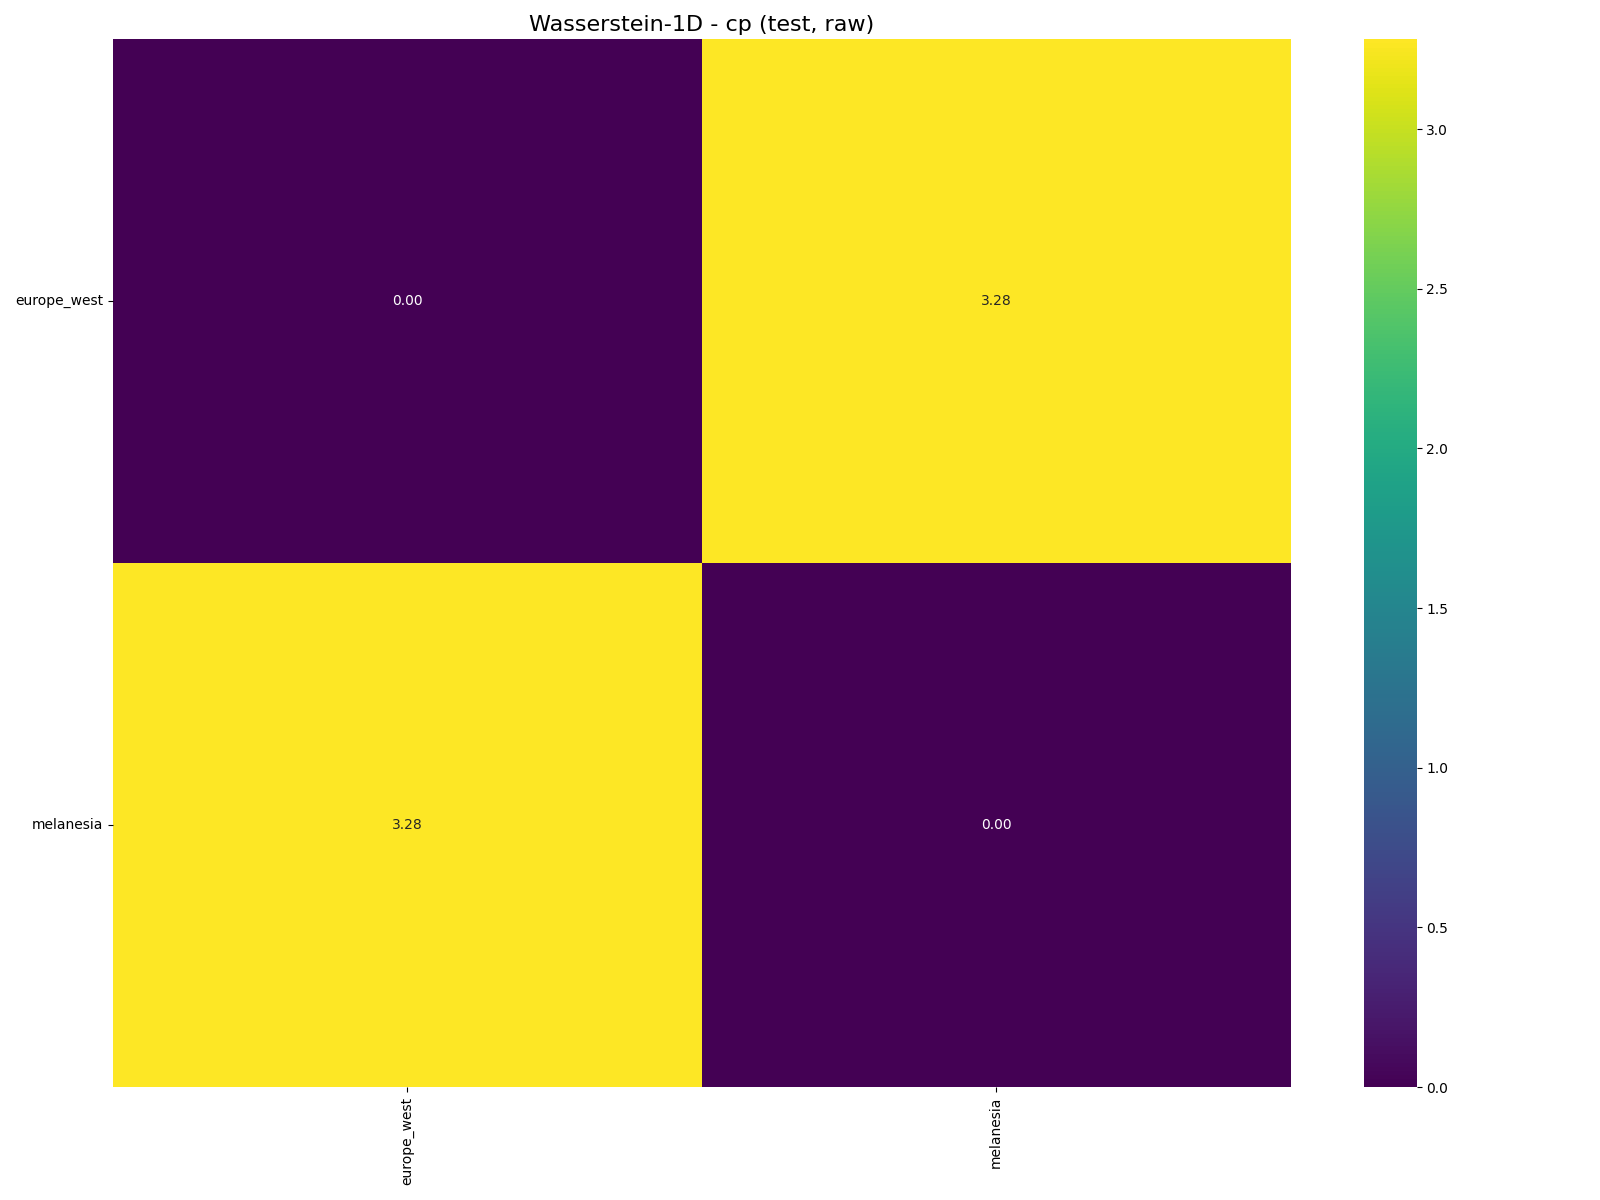
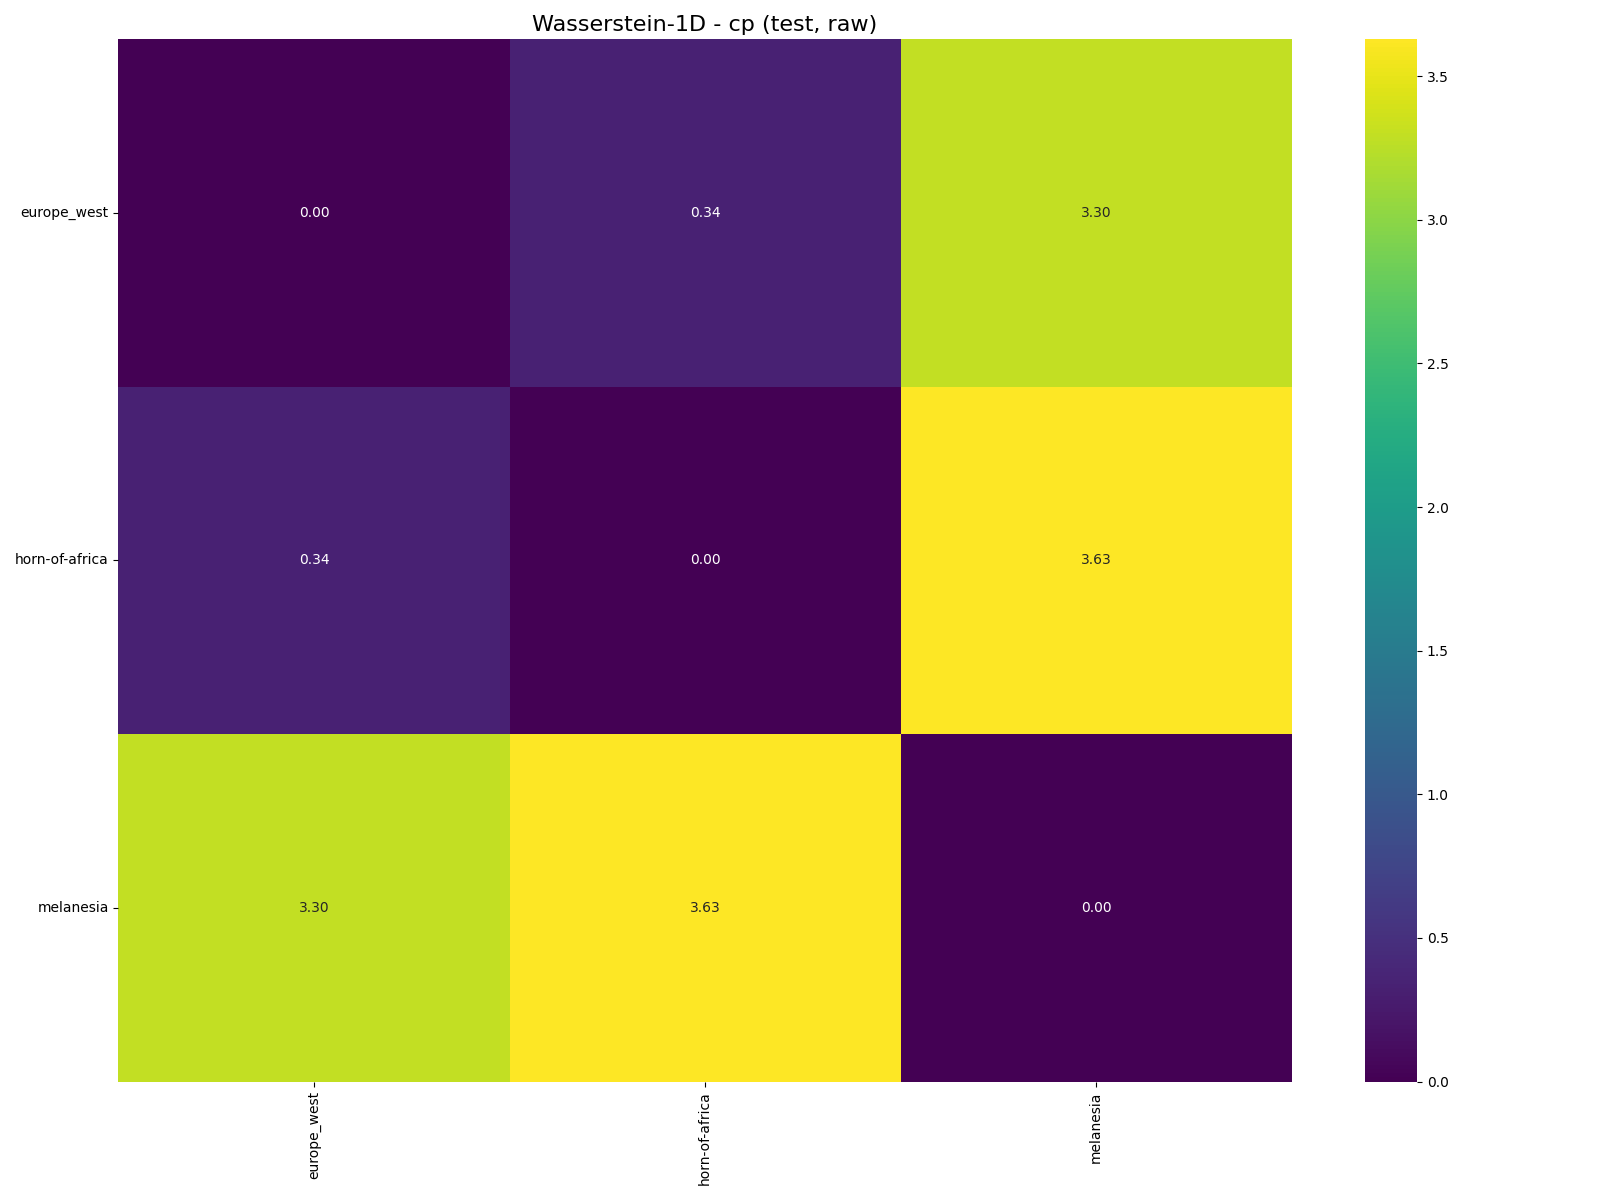
new covariate analysis

diff --git a/covariate_shift_analysis/compute_shift.py b/covariate_shift_analysis/compute_shift.py
@@ -5,12 +5,20 @@ domains, computed on the .npy datasets produced by
 
 For every (domain_i, domain_j, variable) triple the script computes the
 Wasserstein-1 distance between the two empirical pixel distributions of that
-variable, using GPU sort/quantile. Output has shape ``(V, D, D)`` with V the
-number of variables and D the number of domains:
+variable, using a GPU-vectorised exact empirical estimator. Output has shape
+``(V, D, D)`` with V the number of variables and D the number of domains:
 
     {output_dir}/{mode}/Wasserstein_1D_{split}.npy
     {output_dir}/{mode}/Wasserstein_1D_{split}_{var}.png
     {output_dir}/{mode}/Wasserstein_1D_{split}_variables.json
+
+With ``--emit_aggregates`` the script additionally writes scalar (D, D)
+matrices aggregated over the input channels:
+
+    {output_dir}/{mode}/Wasserstein_1D_{split}_mean_inputs.npy
+    {output_dir}/{mode}/Wasserstein_1D_{split}_max_inputs.npy
+    {output_dir}/{mode}/Wasserstein_1D_{split}_mean_inputs.png
+    {output_dir}/{mode}/Wasserstein_1D_{split}_max_inputs.png
 
 The JSON sidecar records the channel-to-variable map and the domain ordering,
 since both are needed to interpret the matrix and neither is implicit anymore
@@ -24,6 +32,11 @@ target is read from ``{split}_y.npy`` and appended as the last channel of the
 output matrix. Disable with ``--target_var none``. The output shape is
 therefore ``(len(input_vars) + (target_var != None), D, D)``.
 
+The aggregate matrices produced by ``--emit_aggregates`` are computed over the
+input channels only; the target channel (tp/precipitation) is excluded, since
+mean_inputs is intended as a covariate-shift summary W1(mu_S, mu_T), distinct
+from the target/label shift measured on the target channel alone.
+
 Modes and transformations
 -------------------------
 raw
@@ -36,13 +49,32 @@ normalized
     ``ClimateSRDatasetNPY`` at training time exactly: log on precip channels
     is baked into ``.npy`` upstream, and z-score is applied here. The
     precipitation target therefore enters the distance in log-standardised
-    space — the same space the training loss is computed in.
+    space -- the same space the training loss is computed in.
+
+    In normalized mode every channel is expressed in units of its own source
+    standard deviation, which makes distances across channels commensurable
+    and mean_inputs a well-defined average. Note that this treats a fixed
+    fractional-sigma shift as equivalent across channels, which is a summary
+    convention rather than a physical equivalence; max_inputs is reported
+    alongside for cases where a single strongly shifted channel dominates
+    transfer difficulty.
 
 Region selection
 ----------------
 Pass ``--domains name1 name2 ...`` to restrict the computation to a subset.
 With no ``--domains``, every subdirectory of ``--data_root`` that contains a
 ``stats.json`` is used.
+
+Metric
+------
+The 1D Wasserstein-1 distance is computed exactly for arbitrary (possibly
+unequal) sample sizes via the empirical-CDF-difference integral
+``W1 = integral |F_a(x) - F_b(x)| dx``, evaluated on the sorted union of the
+two supports. This is exact up to floating point and does not rely on
+quantile interpolation, which would otherwise underestimate the heavy upper
+tail of precipitation distributions. Verified against
+``scipy.stats.wasserstein_distance`` and the analytical limit W1 = |c| for a
+pure location shift of magnitude c.
 """
 
 import argparse
@@ -67,24 +99,34 @@ DEFAULT_TARGET_VAR = "precipitation"
 
 
 def wasserstein1d_gpu(a: np.ndarray, b: np.ndarray, device: torch.device) -> float:
-    """1D Wasserstein-1 via empirical inverse-CDF matching on GPU."""
+    """
+    Exact 1D Wasserstein-1 distance between two empirical distributions.
+
+    Uses the closed-form one-dimensional expression
+        W1(a, b) = integral_R |F_a(x) - F_b(x)| dx,
+    evaluated on the sorted union of the two supports. Exact for arbitrary
+    (including unequal) sample sizes, with no quantile interpolation. This
+    avoids the upper-tail bias that a fixed-grid inverse-CDF approximation
+    introduces on heavy-tailed, zero-inflated precipitation channels.
+
+    Equivalent to scipy.stats.wasserstein_distance but GPU-vectorised.
+    """
     if a.size == 0 or b.size == 0:
         return float("nan")
-    ta = torch.from_numpy(a).to(device)
-    tb = torch.from_numpy(b).to(device)
 
-    # equal-length: pointwise sort is the Monge coupling
-    if ta.shape[0] == tb.shape[0]:
-        ta, _ = torch.sort(ta)
-        tb, _ = torch.sort(tb)
-        return torch.mean(torch.abs(ta - tb)).item()
+    ta = torch.from_numpy(a).to(device).sort().values
+    tb = torch.from_numpy(b).to(device).sort().values
 
-    # unequal length: align on a common quantile grid
-    n = min(ta.shape[0], tb.shape[0])
-    q = torch.linspace(0.0, 1.0, steps=n, device=device)
-    ta = torch.quantile(ta, q)
-    tb = torch.quantile(tb, q)
-    return torch.mean(torch.abs(ta - tb)).item()
+    # Sorted union of support points defines the integration breakpoints.
+    allv = torch.cat([ta, tb]).sort().values
+    deltas = allv[1:] - allv[:-1]  # interval widths, (M-1,)
+
+    # Empirical CDFs at the left edge of each interval:
+    # searchsorted(..., right=True) counts samples <= x; divide by n for F(x).
+    cdf_a = torch.searchsorted(ta, allv[:-1], right=True).to(deltas.dtype) / ta.numel()
+    cdf_b = torch.searchsorted(tb, allv[:-1], right=True).to(deltas.dtype) / tb.numel()
+
+    return torch.sum(torch.abs(cdf_a - cdf_b) * deltas).item()
 
 
 # --------------------------------------------------------------------------
@@ -92,19 +134,22 @@ def wasserstein1d_gpu(a: np.ndarray, b: np.ndarray, device: torch.device) -> flo
 # --------------------------------------------------------------------------
 
 
-def _load_channel(
-    data_path: Path,
-    filename: str,
-    channel: int,
-    n_samples: int,
-    rng: np.random.Generator,
-) -> np.ndarray:
-    """Flat float32 pixel values for one channel from {filename}."""
-    fp = data_path / filename
-    x = np.load(fp, mmap_mode="r")  # (N, C, H, W)
+def _sample_indices(data_path: Path, filename: str, n_samples: int, rng: np.random.Generator) -> np.ndarray:
+    """
+    Draw a sorted frame-index set for one domain, once, to be reused across
+    all channels of that domain. Sharing the index set makes the per-variable
+    distances commensurable (computed on the same frames), which is required
+    for the mean_inputs / max_inputs aggregates to be coherent.
+    """
+    x = np.load(data_path / filename, mmap_mode="r")  # (N, C, H, W)
     n = x.shape[0]
     k = min(n_samples, n)
-    idx = np.sort(rng.choice(n, size=k, replace=False))
+    return np.sort(rng.choice(n, size=k, replace=False))
+
+
+def _load_channel(data_path: Path, filename: str, channel: int, idx: np.ndarray) -> np.ndarray:
+    """Flat float32 pixel values for one channel from {filename} at frames idx."""
+    x = np.load(data_path / filename, mmap_mode="r")  # (N, C, H, W)
     return np.asarray(x[idx, channel]).ravel().astype(np.float32)
 
 
@@ -113,20 +158,48 @@ def _load_domain_stats(data_path: Path) -> dict:
         return json.load(f)
 
 
-def _zscore(flat: np.ndarray, var: str, stats: dict) -> np.ndarray:
+def _zscore(flat: np.ndarray, var: str, stats: dict, domain: str) -> np.ndarray:
     """
     Z-score with per-domain stats, matching ClimateSRDatasetNPY exactly. The
     log-transform on precip channels (tp, cp, precipitation, z) is baked into
     the .npy files by convert_zarr_to_npy, so no extra transform is applied
     here.
+
+    If the variable is absent from stats.json, fall back to on-the-fly
+    per-domain mean/std and warn: a silently different normalisation between
+    domains would bias the cross-domain distance.
     """
     if var in stats:
         mean, std = stats[var]
     else:
-        # fallback: on-the-fly z-score if the var is missing from stats.json
-        # (e.g. a user-specified extra variable). Keeps the script robust.
         mean, std = float(flat.mean()), float(flat.std())
+        print(
+            f"  Warning: '{var}' missing from stats.json for domain '{domain}'; "
+            f"using on-the-fly mean/std ({mean:.4g}, {std:.4g}). Cross-domain "
+            f"comparison for this variable may be biased if other domains use "
+            f"stats.json values."
+        )
     return ((flat - mean) / (std + 1e-8)).astype(np.float32)
+
+
+# --------------------------------------------------------------------------
+#  Aggregation over input channels
+# --------------------------------------------------------------------------
+
+
+def _aggregate_inputs(mat: np.ndarray, variables: list, input_vars: list) -> dict:
+    """
+    Collapse the (V, D, D) cube to scalar (D, D) matrices over the input
+    channels only (target channel excluded). Returns {'mean_inputs', 'max_inputs'}.
+    """
+    input_idx = [i for i, v in enumerate(variables) if v in input_vars]
+    if not input_idx:
+        raise ValueError(f"No input variables {input_vars} found among cube variables {variables}")
+    sub = mat[input_idx]  # (n_inputs, D, D)
+    return {
+        "mean_inputs": np.nanmean(sub, axis=0),
+        "max_inputs": np.nanmax(sub, axis=0),
+    }
 
 
 # --------------------------------------------------------------------------
@@ -213,30 +286,40 @@ def run(args: argparse.Namespace) -> None:
     # Stats are only needed in "normalized" mode.
     stats_cache = {d: (_load_domain_stats(data_root / d) if args.mode == "normalized" else None) for d in domains}
 
+    # Draw ONE frame-index set per (domain, source-file) once and reuse it
+    # across every channel of that file. This keeps the per-variable distances
+    # commensurable (same frames) so the aggregate matrices are coherent.
+    # Inputs and target live in different files with possibly different frame
+    # counts, so index sets are keyed by (domain, filename).
+    rng = np.random.default_rng(args.seed)
+    filenames = sorted({fname for _, fname, _ in variables})
+    idx_cache = {}
+    for d in domains:
+        for fname in filenames:
+            try:
+                idx_cache[(d, fname)] = _sample_indices(data_root / d, fname, args.n_samples, rng)
+            except FileNotFoundError:
+                idx_cache[(d, fname)] = None  # handled per-channel below
+
     print(
-        f"Computing Wasserstein-1D on {device} " f"(mode={args.mode}, split={args.split}, n_samples={args.n_samples})"
+        f"Computing Wasserstein-1D on {device} "
+        f"(mode={args.mode}, split={args.split}, n_samples={args.n_samples})"
     )
     mat = np.zeros((n_v, n_d, n_d), dtype=np.float64)
-    rng = np.random.default_rng(args.seed)
 
     # Channel-outer loop bounds memory to one channel across all domains at a time.
     for k, (var, fname, ch_in_file) in enumerate(tqdm(variables, desc="Variables")):
         per_domain = {}
         for d in domains:
-            try:
-                flat = _load_channel(
-                    data_root / d,
-                    fname,
-                    ch_in_file,
-                    args.n_samples,
-                    rng,
-                )
-                if args.mode == "normalized":
-                    flat = _zscore(flat, var, stats_cache[d])
-                per_domain[d] = flat
-            except FileNotFoundError:
+            idx = idx_cache[(d, fname)]
+            if idx is None:
                 print(f"  Missing {fname} for {d}: skipping {var}.")
                 per_domain[d] = np.array([], dtype=np.float32)
+                continue
+            flat = _load_channel(data_root / d, fname, ch_in_file, idx)
+            if args.mode == "normalized":
+                flat = _zscore(flat, var, stats_cache[d], d)
+            per_domain[d] = flat
 
         for i in range(n_d):
             for j in range(i + 1, n_d):
@@ -275,6 +358,23 @@ def run(args: argparse.Namespace) -> None:
             )
         print(f"Saved {n_v} heatmaps to {out}/")
 
+    # Optional: scalar covariate-shift aggregates over input channels only.
+    if args.emit_aggregates:
+        aggs = _aggregate_inputs(mat, [v[0] for v in variables], args.input_vars)
+        for name, amat in aggs.items():
+            np.save(out / f"Wasserstein_1D_{args.split}_{name}.npy", amat)
+            if not args.no_plots:
+                plot_matrix(
+                    amat,
+                    f"Wasserstein-1D - {name} ({args.split}, {args.mode})",
+                    domains,
+                    out / f"Wasserstein_1D_{args.split}_{name}.png",
+                )
+        print(
+            f"Saved input-channel aggregates (mean_inputs, max_inputs) to {out}/ "
+            f"(target channel excluded)"
+        )
+
 
 def parse_args() -> argparse.Namespace:
     p = argparse.ArgumentParser(
@@ -298,7 +398,7 @@ def parse_args() -> argparse.Namespace:
     p.add_argument(
         "--target_var",
         default=DEFAULT_TARGET_VAR,
-        help="target variable read from {split}_y.npy (channel 0); " "pass 'none' to skip",
+        help="target variable read from {split}_y.npy (channel 0); pass 'none' to skip",
     )
     p.add_argument("--split", default="test", choices=["train", "test"])
     p.add_argument(
@@ -311,6 +411,13 @@ def parse_args() -> argparse.Namespace:
     )
     p.add_argument("--n_samples", type=int, default=1000, help="number of 2D frames per domain (all pixels used)")
     p.add_argument("--seed", type=int, default=42)
+    p.add_argument(
+        "--emit_aggregates",
+        action="store_true",
+        help="also write scalar mean_inputs and max_inputs (D, D) matrices "
+        "aggregated over the input channels only (target excluded), for the "
+        "covariate-shift W1(mu_S, mu_T) interpretation",
+    )
     p.add_argument(
         "--output_dir",
         default=str(Path(__file__).resolve().parent),
